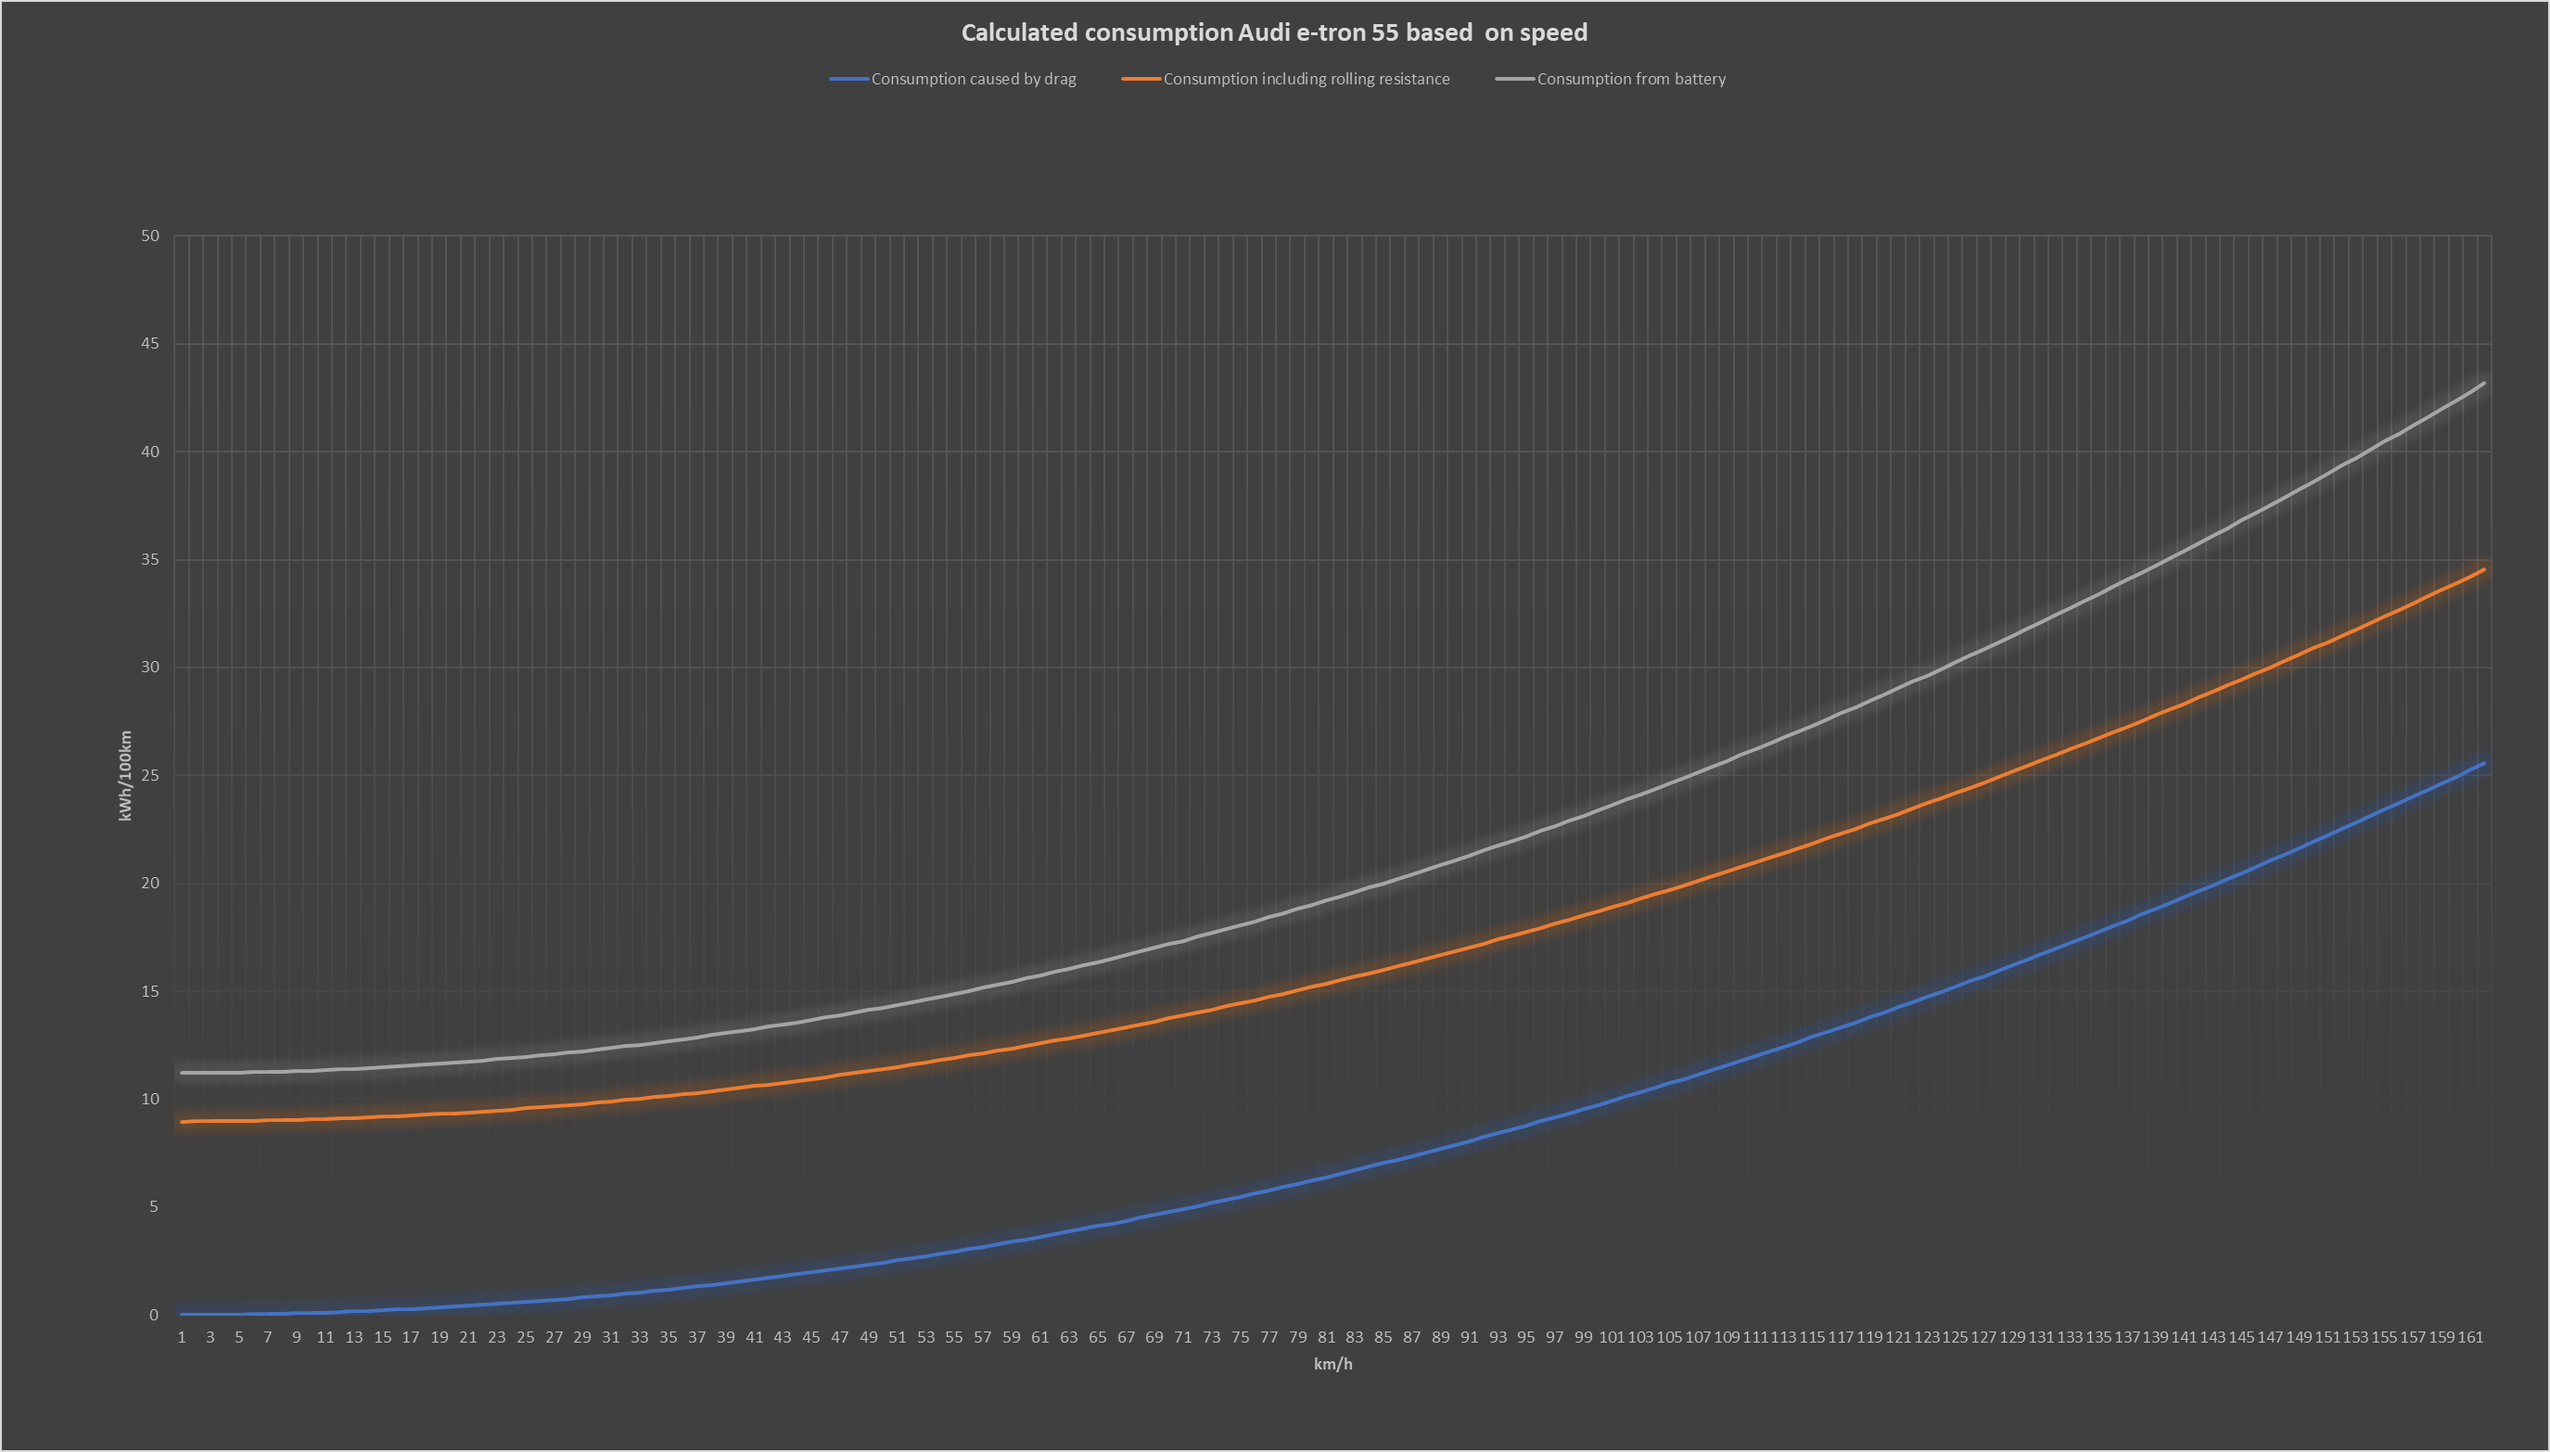
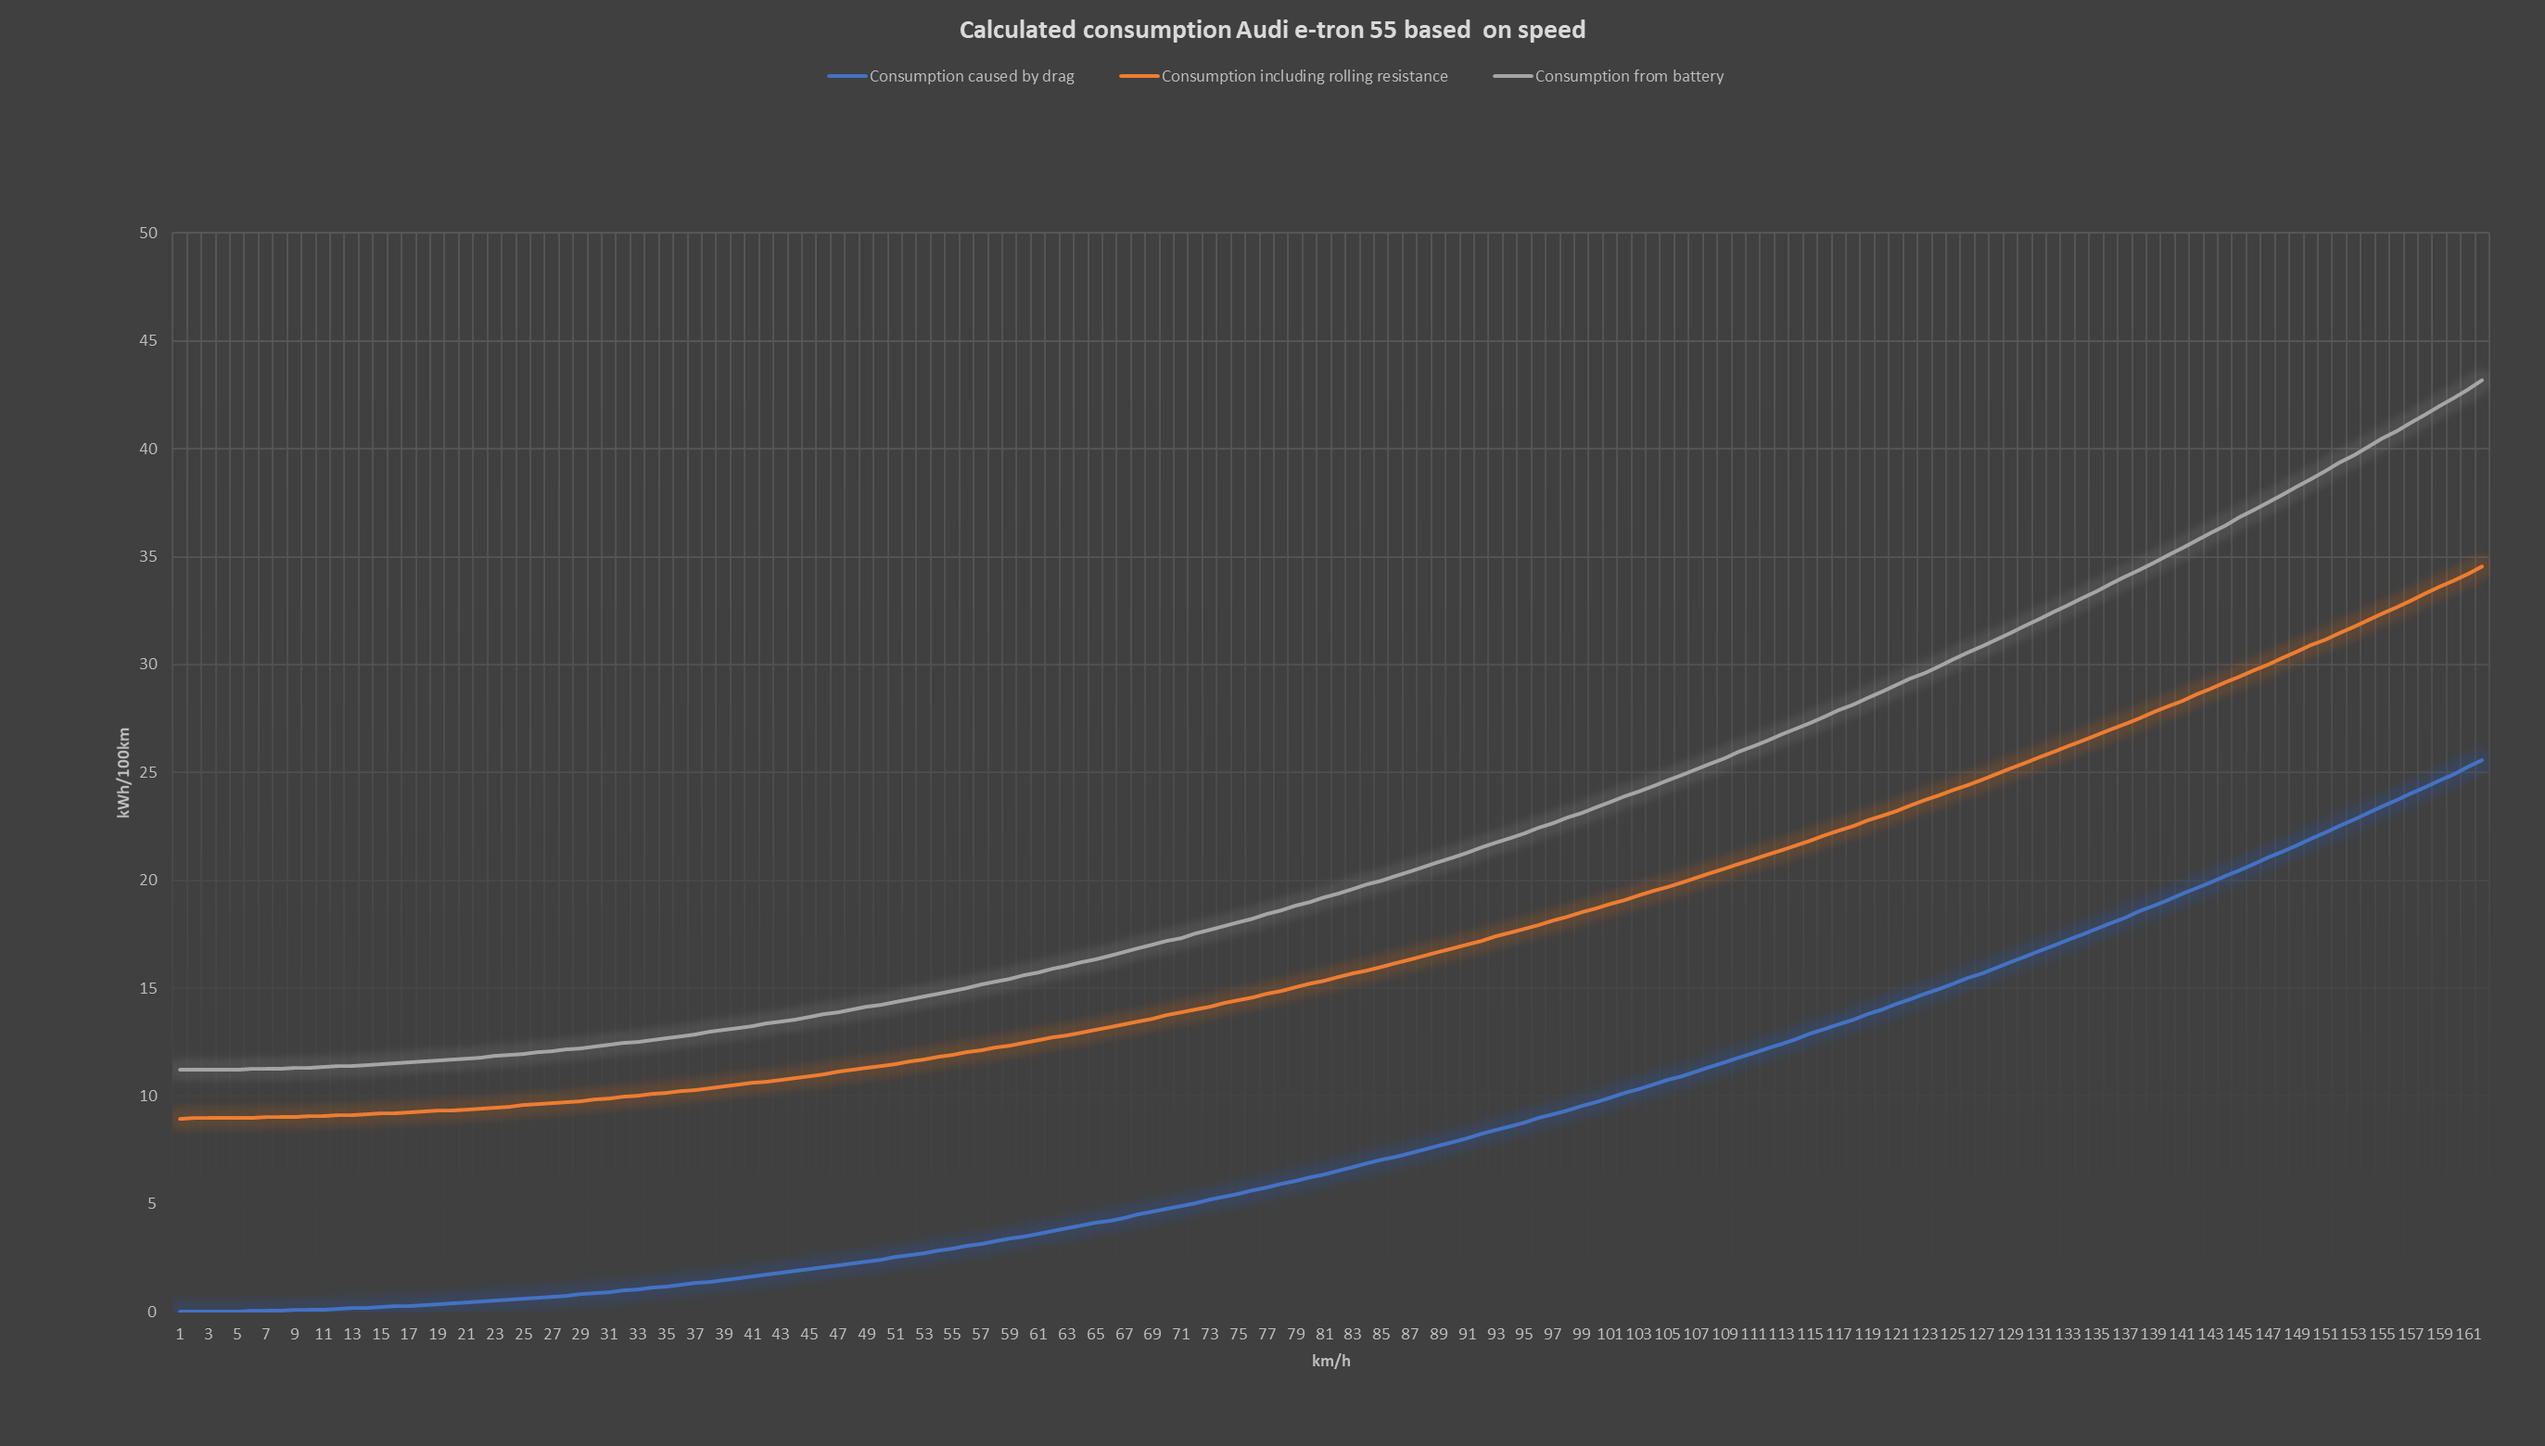
updates

diff --git a/content/guides/regen/_index.md b/content/guides/regen/_index.md
@@ -4,7 +4,7 @@ linktitle: Regenerative braking
 description: Regeneration of energy is one of the benefits of an electric drivetrain. In this article, we will try to show how much regeneration can affect consumption.
 weight: 3
 ---
-
+<!-- markdownlint-disable MD033 -->
 
 ## How does it work?
 
@@ -16,13 +16,16 @@ For coasting and light braking, only the rear motor is used, but when cornering 
 
 The brakes also blend in the physical brakes if needed.
 
-![Recup](recuperation.png "Coasting regneration")
-
+<figure>
+    <a href="recuperation.png">
+        <img src="recuperations.png" alt="Coasting regneration" title="Coasting regneration">
+    </a>
+    <figcaption><h4>Coasting regneration</h4></figcaption>
+</figure>
 
 The below video shows in detail how the different engines are used.
 
 {{< youtube 2WPTHi2FUdQ >}}
-
 
 ## What kind of energy can be regenerated?
 
@@ -104,6 +107,13 @@ The below graph shows the total kinetic energy and the two types of potential en
 
 ![Kinetic](kinetic.png "Graph over kinetic energy")
 
+<figure>
+    <a href="recuperation.png">
+        <img src="recuperations.png" alt="Coasting regneration" title="Coasting regneration">
+    </a>
+    <figcaption><h4>Coasting regneration</h4></figcaption>
+</figure>
+
 ## Understanding energy consumption
 
 Before we give you an example of how much energy can be regenerated we need to explain energy consumption. Because this affects the result.
@@ -149,7 +159,12 @@ This number is an estimate. On wet roads or roads with snow, the rolling resista
 
 The below diagram shows the calculated consumption needed to overcome drag and rolling resistance and consumption from the battery based on 80% efficiency of the drivetrain. The real efficiency is not known but it is expected to be around 80%.
 
-![Consumption](consumption.png "Calculated consumption")
+<figure>
+    <a href="consumption.png">
+        <img src="consumptions.png" alt="Calculated consumption" title="Calculated consumption">
+    </a>
+    <figcaption><h4>Calculated consumption</h4></figcaption>
+</figure>
 
 ## How much can be regenerated?
 
@@ -232,6 +247,8 @@ Since you would need to keep your foot on the pedal at a specific position to no
 
 That's why Audi recommends using automatic regen with coasting to save energy.
 
-The difference is small probably less than 10% of the difference between coasting and regenerative braking in the scenarios where coasting is possible. 
+The difference is small, probably less than 10% of the difference between coasting and regenerative braking in the scenarios where coasting is possible.
 
 For scenarios like scenario 1, there is no difference since you will do regenerative braking to keep the car on the road.
+
+Since the difference is so small, you should choose based on your personal preference.
